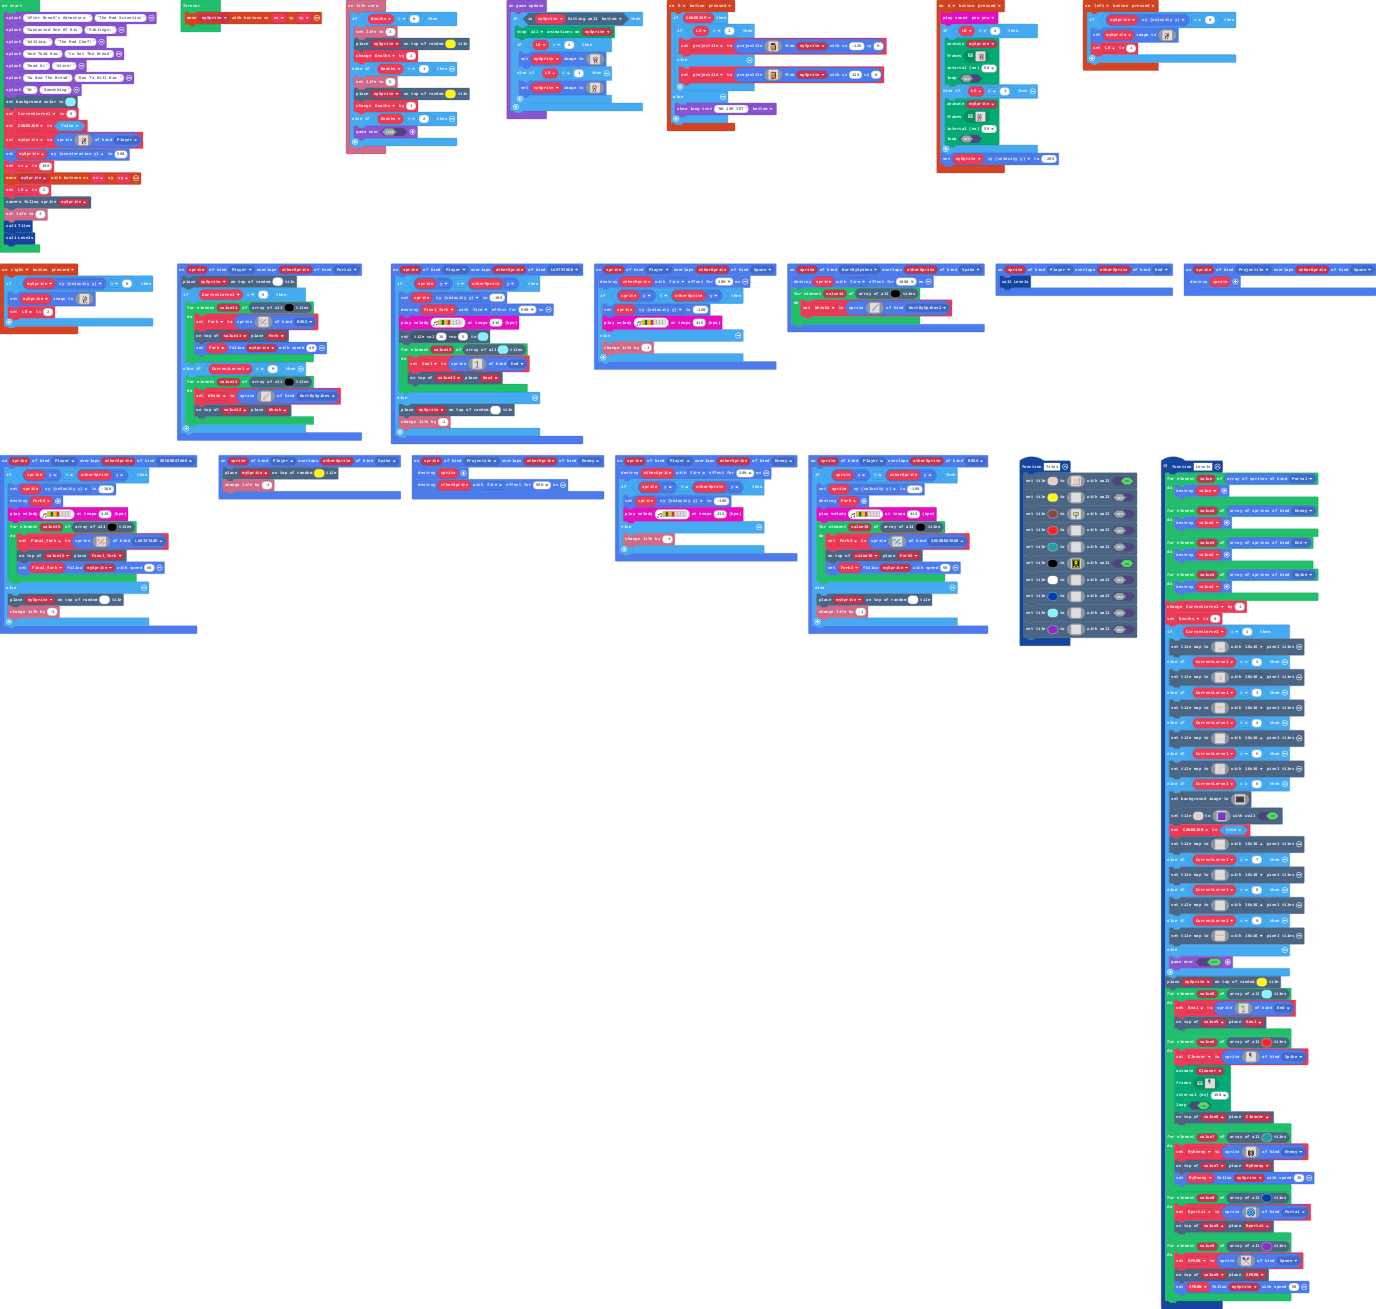
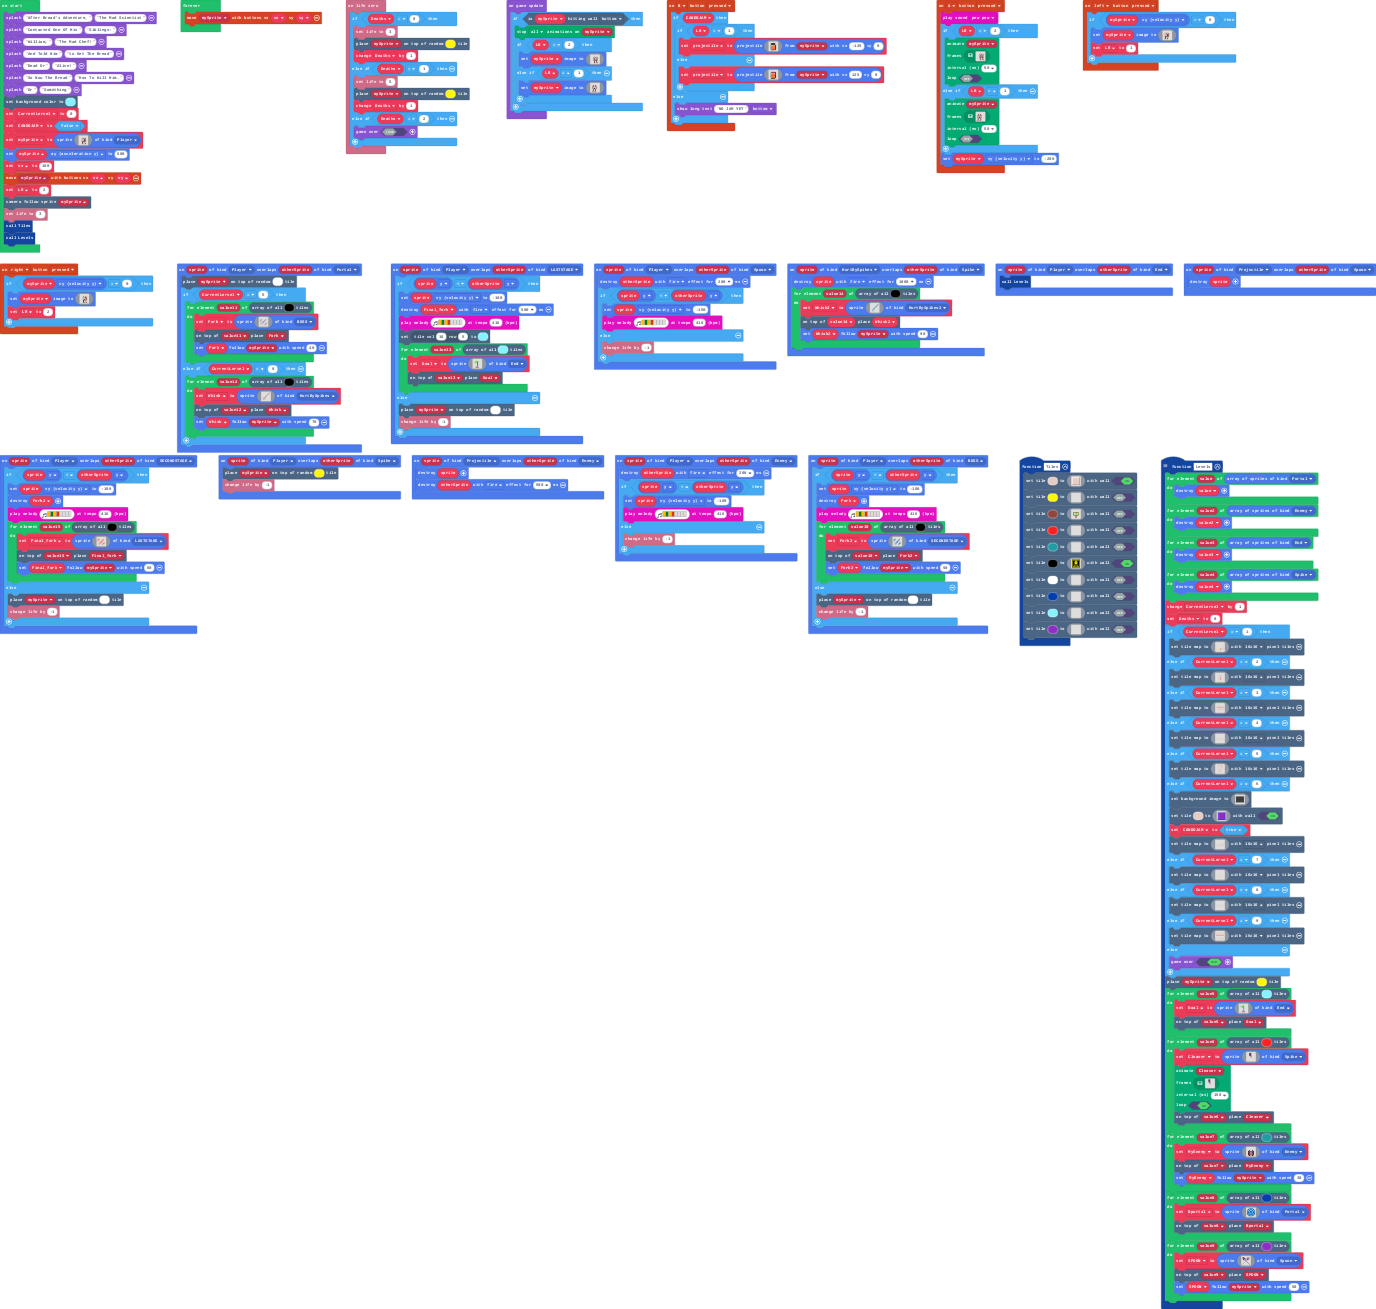
Almost Finished Second Boss

Changed region(s): [[0.125, 0.3056, 0.2812, 0.3667], [0.5625, 0.2445, 0.7188, 0.275]]

diff --git a/images.g.ts b/images.g.ts
@@ -704,6 +704,41 @@ dddddddddddddddddddddddddddddddddddddddd
 5...2......2...2ddddddddddddddddddddddd8
 dddddddddddddddddddddddddddddddddddddddd
 `;
+            case "image12":
+            case "Rusty3":return img`
+................................
+.............................42.
+............................444.
+...........................224..
+..........................442...
+.........................224....
+........................424.....
+.......................424......
+......................444.......
+.....................422........
+....................424.........
+...................444..........
+..................224...........
+.................424............
+................444.............
+...............442..............
+..............424...............
+.............424................
+.........224242.................
+........4..4..4.................
+.......4..4...4.................
+......4..4...22.................
+.....4..2...4.4.................
+....2..2...4..2.................
+....2.4...4..2..................
+....42...4..4...................
+....2...4..2....................
+....4..2..4.....................
+.....42422......................
+................................
+................................
+................................
+`;
         }
         return null;
     })

diff --git a/main.ts b/main.ts
@@ -136,6 +136,7 @@ sprites.onOverlap(SpriteKind.Player, SpriteKind.Portal, function (sprite, otherS
         for (let value12 of scene.getTilesByType(15)) {
             Whisk = sprites.create(assets.image`Rusty`, SpriteKind.HurtBySpikes)
             scene.place(value12, Whisk)
+            Whisk.follow(mySprite, 70)
         }
     }
 })
@@ -355,6 +356,8 @@ sprites.onOverlap(SpriteKind.HurtBySpikes, SpriteKind.Spike, function (sprite, o
     sprite.destroy(effects.fire, 1000)
     for (let value14 of scene.getTilesByType(15)) {
         Whisk2 = sprites.create(assets.image`Rusty2`, SpriteKind.HurtBySpikes2)
+        scene.place(value14, Whisk2)
+        Whisk2.follow(mySprite, 90)
     }
 })
 sprites.onOverlap(SpriteKind.Player, SpriteKind.End, function (sprite, otherSprite) {
